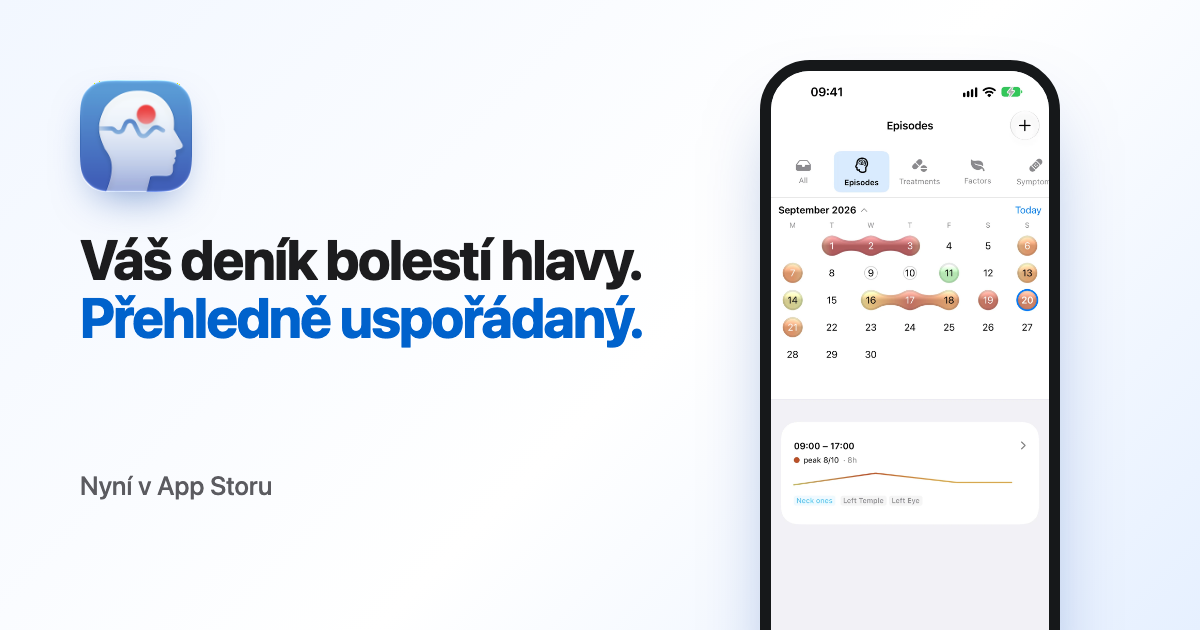
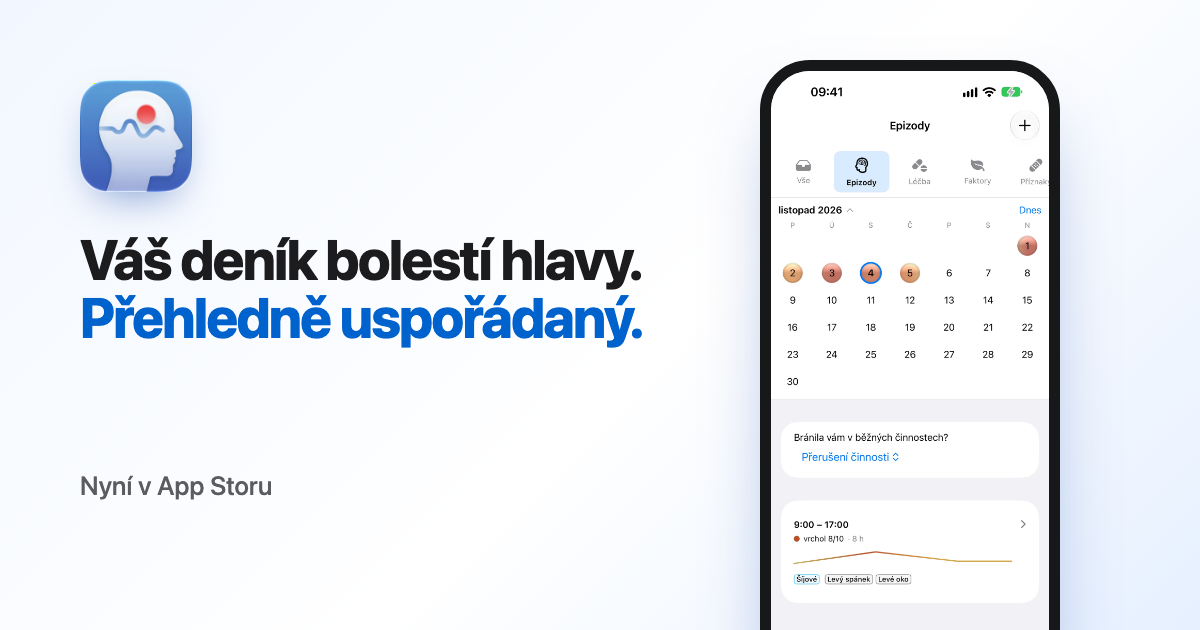
Languages: the Czech page shows the app in Czech
Inhead 1.1.0 (build 6) captures in Czech, converted as the English set was
(plain resize, iPhone 1100 / iPad 1400 wide, WebP q88): month, timeline, week,
data and the iPad episode detail. Light only, so the dark theme shows them too.
The 1.1.0 week screen has a "Did it stop you doing things?" card above the
episode, so a translated week gets a taller crop that keeps the pain curve.
og-cs.png now shows the Czech month.

diff --git a/src/lib/screens.ts b/src/lib/screens.ts
@@ -7,15 +7,16 @@ const all = import.meta.glob<ImageMetadata>('../assets/screens/**/*.webp', { eag
 const find = (lang: string, file: string): ImageMetadata | undefined =>
   (lang !== 'en' && all[`../assets/screens/${lang}/${file}`]) || all[`../assets/screens/${file}`];
 
-/** The light and dark screenshot of a screen, e.g. screen('ru', 'iphone-week'). */
-export function screen(lang: string, name: string): { light: ImageMetadata; dark?: ImageMetadata } {
+/** The light and dark screenshot of a screen, e.g. screen('ru', 'iphone-week'); `own` when it shows the app in
+ *  that language rather than the English fallback. */
+export function screen(lang: string, name: string): { light: ImageMetadata; dark?: ImageMetadata; own: boolean } {
   const light = find(lang, `${name}-light.webp`);
   if (!light) throw new Error(`no screenshot ${name}-light.webp`);
   // A language that has its own light screenshot but no dark one shows its light one in both schemes:
   // the app in the reader's language matters more than the colour scheme.
   const ownLight = lang !== 'en' && all[`../assets/screens/${lang}/${name}-light.webp`];
   const dark = ownLight ? all[`../assets/screens/${lang}/${name}-dark.webp`] : find(lang, `${name}-dark.webp`);
-  return { light, dark };
+  return { light, dark, own: Boolean(ownLight) };
 }
 
 /** Whether a screen exists at all (the iPad hero is optional). */

diff --git a/src/styles/landing.css b/src/styles/landing.css
@@ -91,6 +91,7 @@
 .crop img { display: block; width: 100%; height: auto; -webkit-user-drag: none; }
 .crop-record { aspect-ratio: 330 / 620; }
 .crop-see { aspect-ratio: 330 / 390; }
+.crop-see-tall { aspect-ratio: 330 / 450; }
 .crop-share { aspect-ratio: 1; }
 .crop-share img { margin-top: -72.7%; }
 
